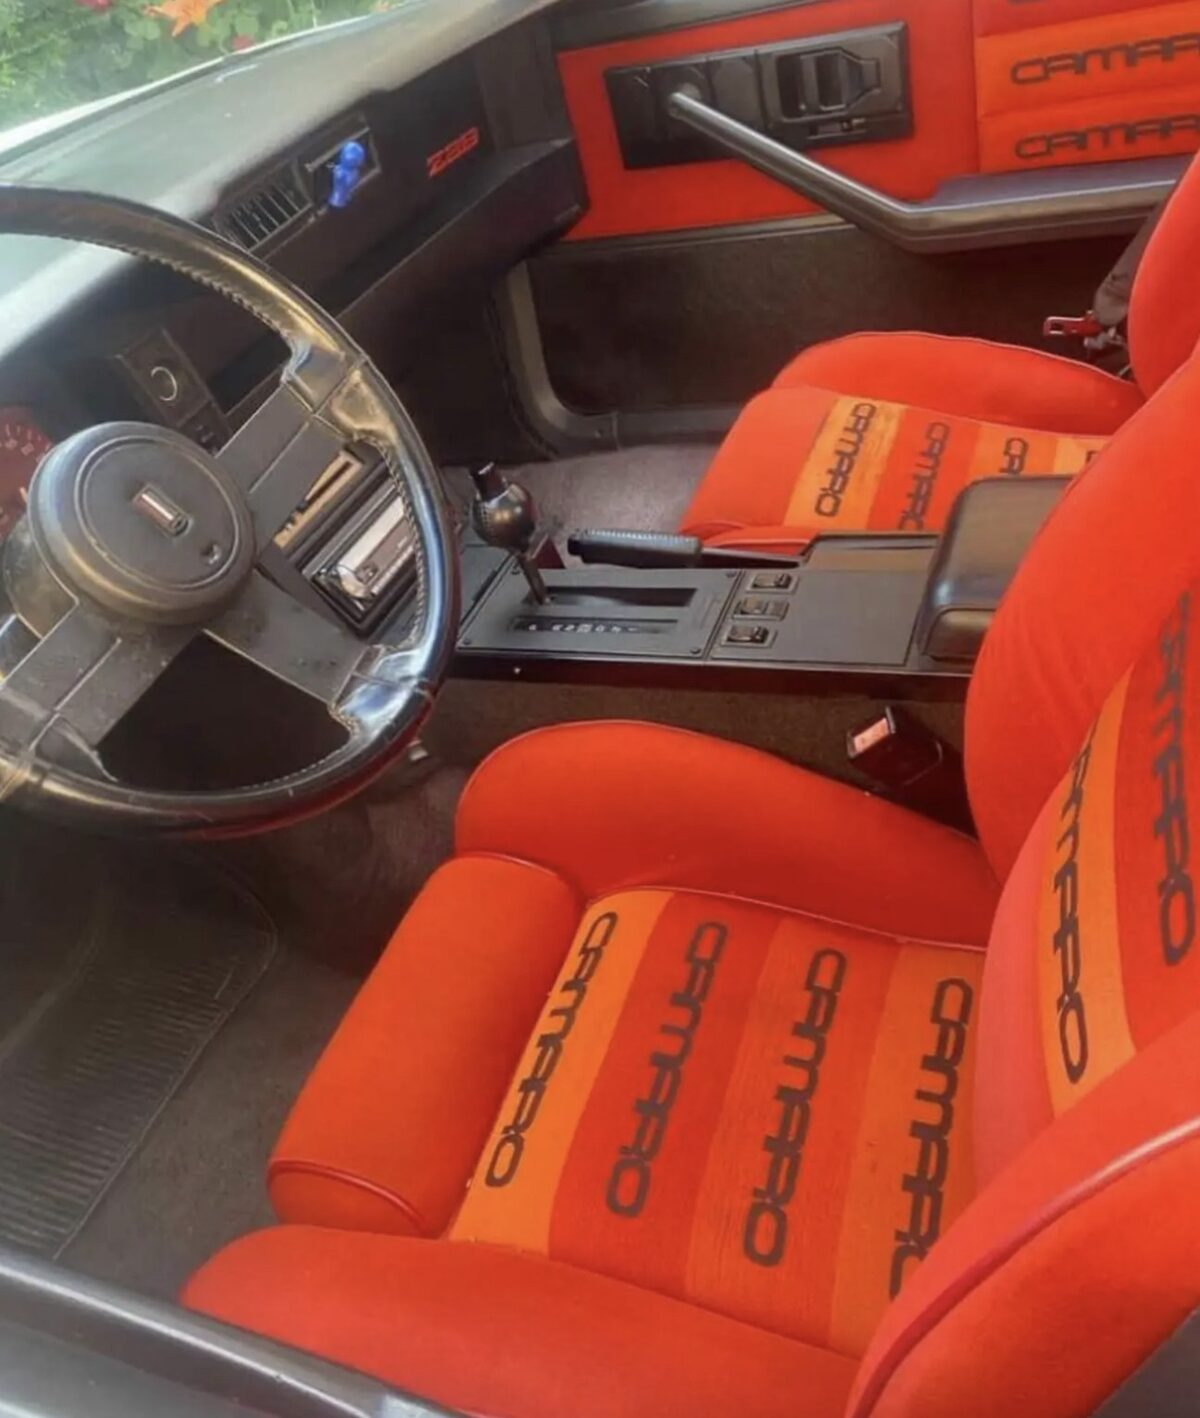
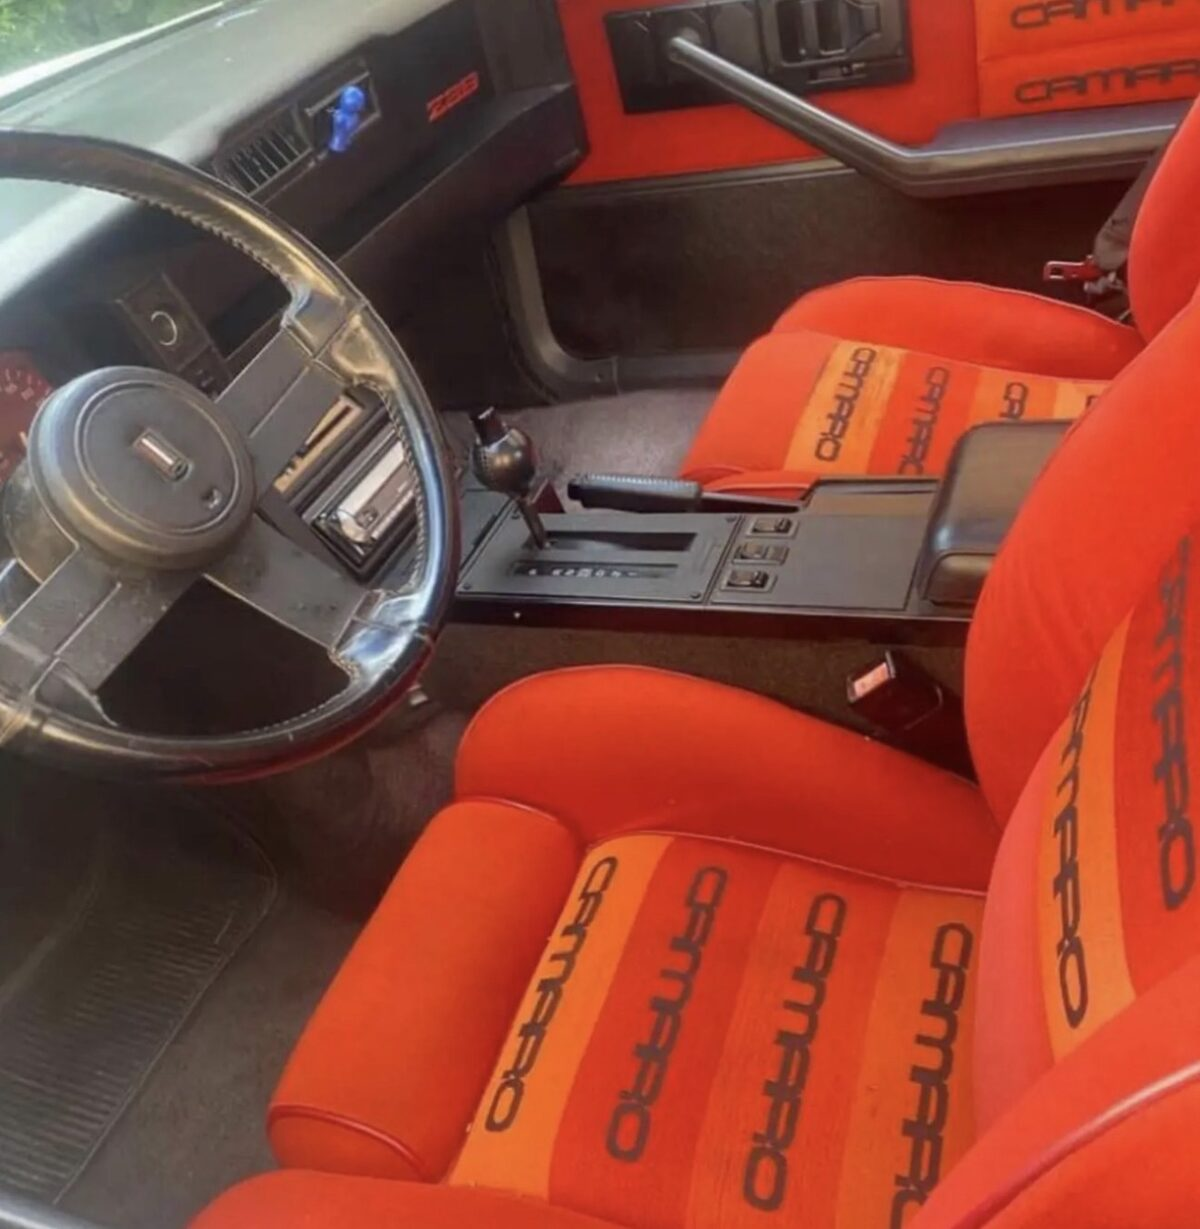
Replace front seat photo with retrimmed version

diff --git a/index.html b/index.html
@@ -118,7 +118,7 @@
     <div class="thumbs" id="thumbs">
       <button type="button" class="thumb" data-full="./assets/gallery/01.jpg" aria-label="Photo 1"><img src="./assets/gallery/01.jpg" alt="" loading="lazy" /></button>
       <button type="button" class="thumb" data-full="./assets/gallery/02.jpg" aria-label="Photo 2"><img src="./assets/gallery/02.jpg" alt="" loading="lazy" /></button>
-      <button type="button" class="thumb" data-full="./assets/gallery/03.jpg" aria-label="Photo 3"><img src="./assets/gallery/03.jpg" alt="" loading="lazy" /></button>
+      <button type="button" class="thumb" data-full="./assets/gallery/03.jpg?v=3" aria-label="Photo 3"><img src="./assets/gallery/03.jpg?v=3" alt="" loading="lazy" /></button>
       <button type="button" class="thumb" data-full="./assets/gallery/04.jpg" aria-label="Photo 4"><img src="./assets/gallery/04.jpg" alt="" loading="lazy" /></button>
       <button type="button" class="thumb" data-full="./assets/gallery/05.jpg" aria-label="Photo 5"><img src="./assets/gallery/05.jpg" alt="" loading="lazy" /></button>
       <button type="button" class="thumb" data-full="./assets/gallery/06.jpg" aria-label="Photo 6"><img src="./assets/gallery/06.jpg" alt="" loading="lazy" /></button>
